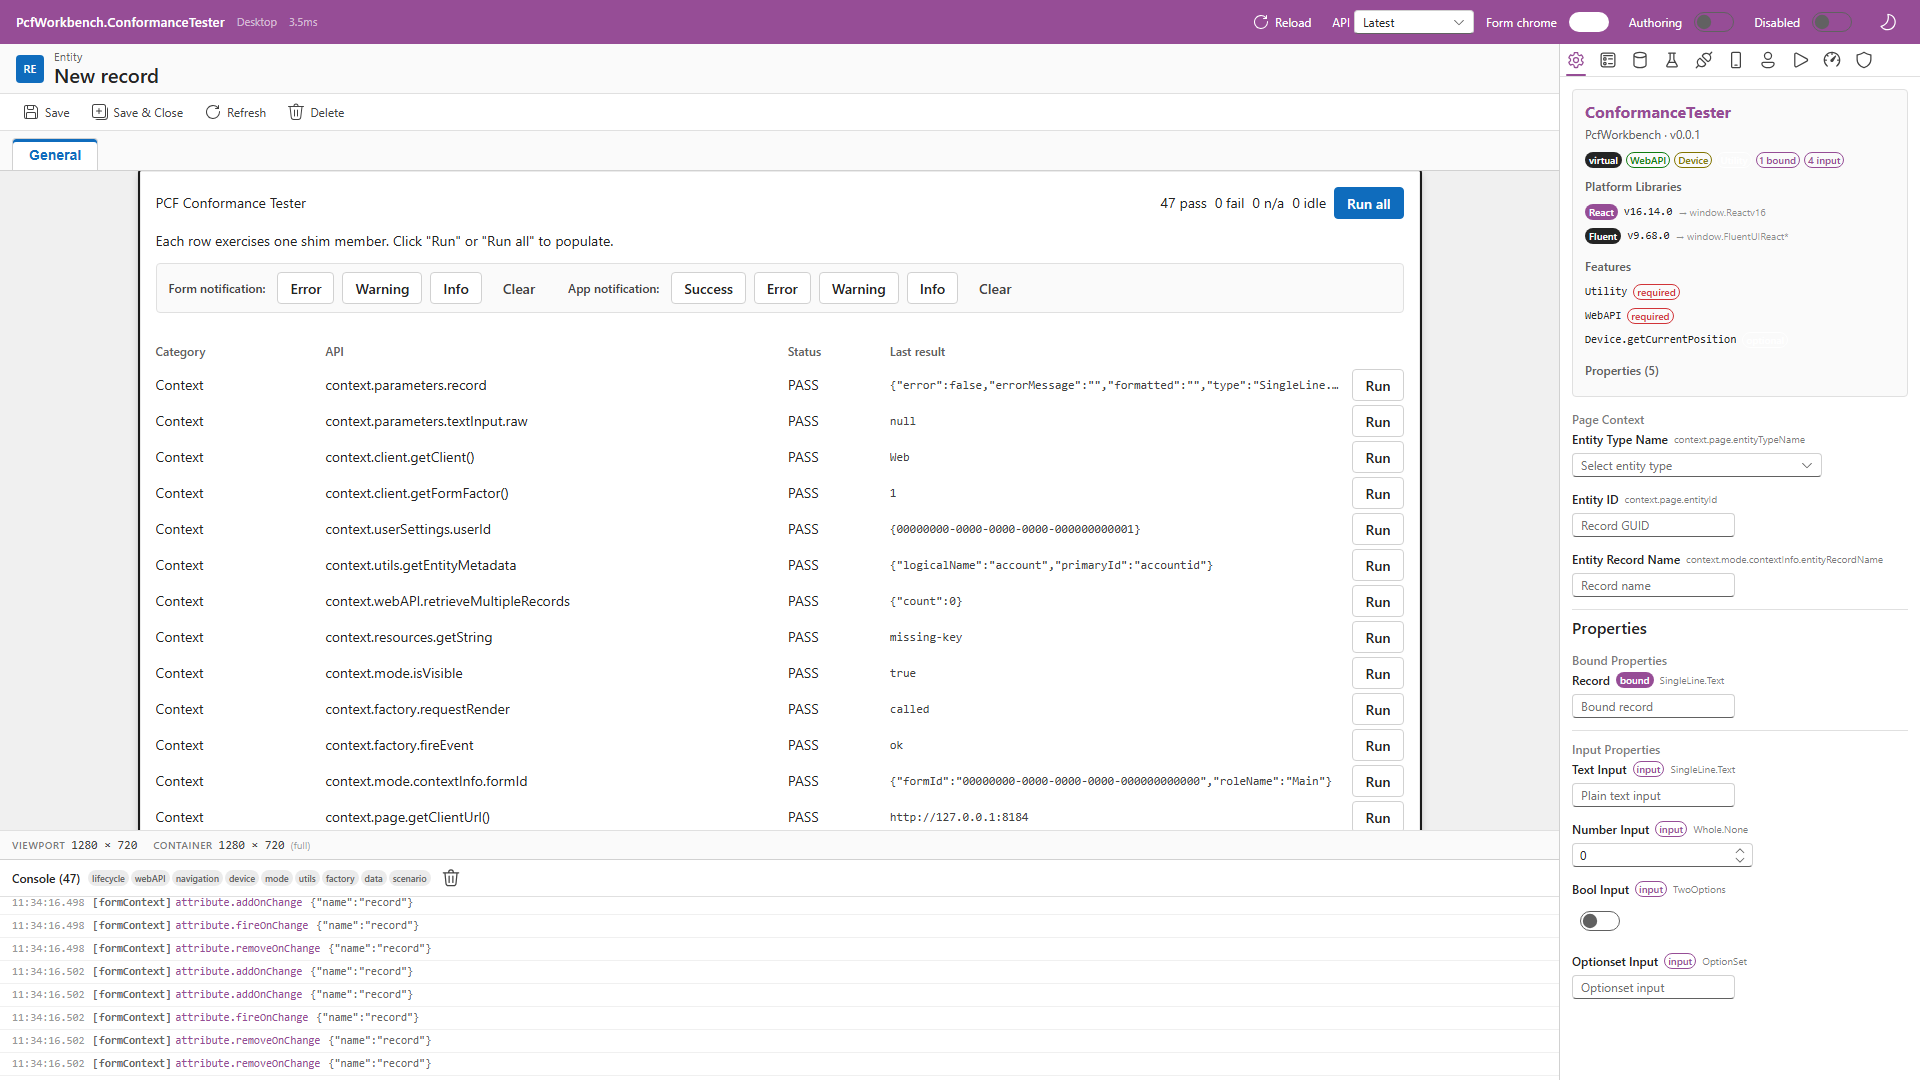
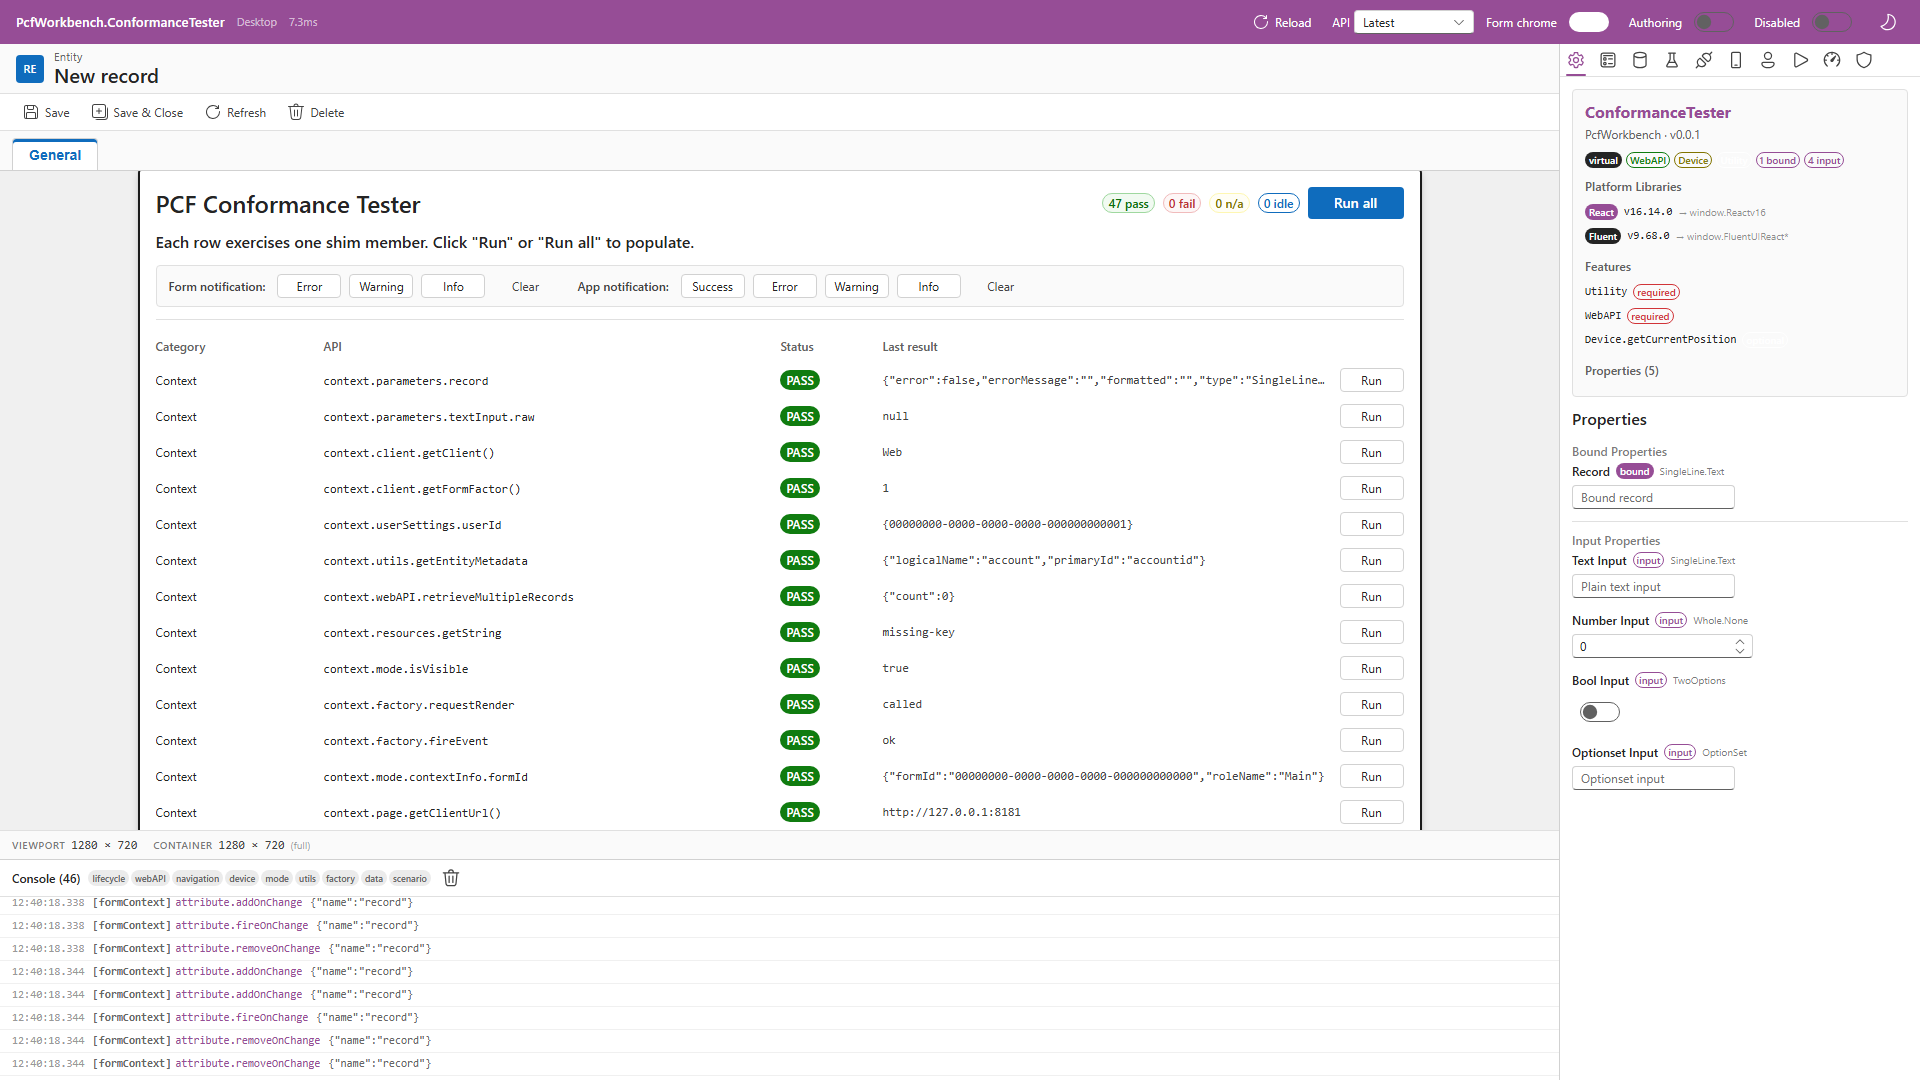
M9.P2 chunk 1: real Fluent UMDs via on-demand esbuild bundle
The hand-stubbed Fluent UI in platform-libs.ts hits a completeness ceiling
(e.g. ColorPicker calls real getColorFromString, can't no-op). This change
adds a Vite middleware that, on first request, npm installs the requested
Fluent v8 or v9 version into harness/.fluent-cache/, bundles it with esbuild
to an IIFE and serves it. Subsequent loads are instant from disk.

Architecture:
- /__pcf/fluent-cdn/<v8|v9>/<x.y.z>/bundle.js — middleware route
- esbuild externals plugin maps 'react'/'react-dom' to window.React/ReactDOM
  so Fluent shares the same React instance as the PCF bundle (avoids the
  classic two-Reacts hooks-dispatcher-null bug, React error #321)
- 'react/jsx-runtime' shimmed via React.createElement so React 16 (loaded
  globally for PCF compat) can host Fluent v9's new-JSX-transform output
- platform-libs.ts: tryLoadRealFluent() injects script tag, awaits onload,
  aliases under all versioned globals (FluentUIReactv940, etc.); falls
  back to existing stub on failure
- .fluent-cache/ gitignored

Validated: ConformanceTester (Fluent v9 9.68.0) 38/0/0 conformance pass.
ColorPicker (Fluent v8 8.29.0) loads past the previous stub ceiling.

Part of M9 — Deployed Controls Inspector.

diff --git a/harness/src/vite-plugin/fluent-cdn.ts b/harness/src/vite-plugin/fluent-cdn.ts
@@ -1,0 +1,223 @@
+/**
+ * Vite middleware that serves real Fluent UI UMDs on demand for deployed/extracted
+ * PCF controls. Bundles `@fluentui/react` (v8) or `@fluentui/react-components` (v9)
+ * with esbuild on first request, caches the IIFE bundle to disk, and exposes the
+ * library under the versioned globals deployed bundles expect (FluentUIReactv940 etc.).
+ *
+ * Why we bundle on demand instead of vendoring a UMD or pulling from a CDN:
+ *  - Neither @fluentui/react nor @fluentui/react-components ships a UMD on npm.
+ *    They publish ESM + CJS only (designed for tree-shaking).
+ *  - Vendoring would commit ~7 MB of prebuilt bundles to the harness repo.
+ *  - Loading from MS's UCI CDN would pin us to undocumented, hash-rotated URLs.
+ *
+ * On-demand npm-install + esbuild is slow on first run (10–60 s incl. install)
+ * but reproducible, version-stable, and fully offline after first build.
+ *
+ * Cache layout: harness/.fluent-cache/<v8|v9>/<version>/
+ *   - package.json   — minimal manifest pinning the requested fluent version
+ *   - node_modules/  — npm-installed dep tree (gitignored)
+ *   - entry.js       — generated stub that re-exports under window globals
+ *   - bundle.js      — esbuild output (IIFE), what we serve
+ */
+
+import type { Connect, Plugin } from 'vite';
+import fs from 'node:fs';
+import path from 'node:path';
+import { spawn } from 'node:child_process';
+import * as esbuild from 'esbuild';
+
+export const FLUENT_CDN_BASE = '/__pcf/fluent-cdn';
+
+interface FluentTarget {
+  major: 'v8' | 'v9';
+  npmPkg: string;
+  /** Globals to assign the namespace export to (window.<name> = F). The first
+   *  one is the canonical name; the rest are aliases for manifest drift. */
+  globals: string[];
+  /** React peer that pairs with this Fluent line. Bundled into the same UMD. */
+  reactVersion: string;
+}
+
+const TARGETS: Record<string, FluentTarget> = {
+  v8: {
+    major: 'v8',
+    npmPkg: '@fluentui/react',
+    globals: ['FluentUIReact', 'FluentUIReactv8290', 'FluentUIReactv81211'],
+    reactVersion: '17.0.2',
+  },
+  v9: {
+    major: 'v9',
+    npmPkg: '@fluentui/react-components',
+    globals: ['FluentUIReactv940', 'FluentUIReactv946'],
+    reactVersion: '17.0.2',
+  },
+};
+
+function getCacheRoot(): string {
+  // Resolve relative to the harness/ folder where Vite is invoked.
+  return path.resolve(process.cwd(), '.fluent-cache');
+}
+
+async function runNpmInstall(cacheDir: string): Promise<void> {
+  await new Promise<void>((resolve, reject) => {
+    const child = spawn('npm', ['install', '--silent', '--no-audit', '--no-fund', '--no-progress'], {
+      cwd: cacheDir,
+      shell: true,
+      stdio: 'inherit',
+    });
+    child.on('exit', code => code === 0 ? resolve() : reject(new Error(`npm install exited with code ${code}`)));
+    child.on('error', reject);
+  });
+}
+
+async function buildBundle(target: FluentTarget, version: string, cacheDir: string, outFile: string): Promise<void> {
+  const pkgJsonPath = path.join(cacheDir, 'package.json');
+  if (!fs.existsSync(pkgJsonPath)) {
+    fs.mkdirSync(cacheDir, { recursive: true });
+    fs.writeFileSync(pkgJsonPath, JSON.stringify({
+      name: `pcfwb-fluent-cache-${target.major}-${version}`,
+      version: '0.0.0',
+      private: true,
+      dependencies: {
+        [target.npmPkg]: version,
+        react: target.reactVersion,
+        'react-dom': target.reactVersion,
+      },
+    }, null, 2));
+  }
+
+  const installedMarker = path.join(cacheDir, 'node_modules', target.npmPkg, 'package.json');
+  if (!fs.existsSync(installedMarker)) {
+    console.log(`[pcf-workbench] fluent-cdn: installing ${target.npmPkg}@${version} (this is a one-time per-version cost)…`);
+    const start = Date.now();
+    await runNpmInstall(cacheDir);
+    console.log(`[pcf-workbench] fluent-cdn: install done in ${((Date.now() - start) / 1000).toFixed(1)}s`);
+  }
+
+  const entryPath = path.join(cacheDir, 'entry.js');
+  const aliasAssignments = target.globals.map(name => `  g.${name} = F;`).join('\n');
+  fs.writeFileSync(entryPath, `import * as F from '${target.npmPkg}';
+const g = (typeof window !== 'undefined') ? window : globalThis;
+${aliasAssignments}
+// Marker so platform-libs can detect that the real Fluent UMD loaded for this version.
+g.__pcfwbFluentReal = g.__pcfwbFluentReal || {};
+g.__pcfwbFluentReal['${target.major}'] = '${version}';
+`);
+
+  console.log(`[pcf-workbench] fluent-cdn: bundling ${target.npmPkg}@${version} with esbuild…`);
+  const start = Date.now();
+  // External-globals plugin: resolve `react` and `react-dom` (and their /jsx-runtime
+  // entry points) to the host page's window.React / window.ReactDOM. This is critical
+  // for Fluent components to share the SAME React instance as the PCF bundle that
+  // hosts them — otherwise hooks find a null dispatcher (React error #321).
+  const externalGlobalsPlugin: esbuild.Plugin = {
+    name: 'external-globals',
+    setup(build) {
+      const externals: Record<string, string> = {
+        'react': 'window.React',
+        'react-dom': 'window.ReactDOM',
+        'react-dom/client': 'window.ReactDOM',
+      };
+      const jsxRuntimeShim = `var React = window.React;
+function jsx(type, props, key) {
+  if (props == null) return React.createElement(type, key != null ? { key: key } : null);
+  var children = props.children;
+  var rest = {};
+  for (var k in props) { if (k !== 'children') rest[k] = props[k]; }
+  if (key != null) rest.key = key;
+  return React.createElement(type, rest, children);
+}
+exports.jsx = jsx;
+exports.jsxs = jsx;
+exports.jsxDEV = jsx;
+exports.Fragment = React.Fragment;`;
+      const jsxFilter = /^react\/jsx-(dev-)?runtime$/;
+      const externalsFilter = new RegExp('^(' + Object.keys(externals).map(k => k.replace(/[\\/]/g, '\\$&')).join('|') + ')$');
+      build.onResolve({ filter: jsxFilter }, args => ({ path: args.path, namespace: 'jsx-runtime-shim' }));
+      build.onLoad({ filter: /.*/, namespace: 'jsx-runtime-shim' }, () => ({
+        contents: jsxRuntimeShim,
+        loader: 'js',
+      }));
+      build.onResolve({ filter: externalsFilter }, args => ({ path: args.path, namespace: 'external-globals' }));
+      build.onLoad({ filter: /.*/, namespace: 'external-globals' }, args => ({
+        contents: `module.exports = ${externals[args.path]};`,
+        loader: 'js',
+      }));
+    },
+  };
+  await esbuild.build({
+    entryPoints: [entryPath],
+    bundle: true,
+    outfile: outFile,
+    format: 'iife',
+    target: ['es2017'],
+    platform: 'browser',
+    minify: true,
+    absWorkingDir: cacheDir,
+    nodePaths: [path.join(cacheDir, 'node_modules')],
+    define: { 'process.env.NODE_ENV': '"production"' },
+    loader: { '.js': 'jsx' },
+    plugins: [externalGlobalsPlugin],
+    logLevel: 'warning',
+  });
+  const sizeKb = (fs.statSync(outFile).size / 1024).toFixed(1);
+  console.log(`[pcf-workbench] fluent-cdn: bundle ready in ${((Date.now() - start) / 1000).toFixed(1)}s (${sizeKb} KB)`);
+}
+
+export function fluentCdnMiddleware(): Connect.NextHandleFunction {
+  // Dedupe parallel requests for the same bundle while a build is in flight.
+  const inflight = new Map<string, Promise<void>>();
+
+  return async (req, res, next) => {
+    if (!req.url || !req.url.startsWith(FLUENT_CDN_BASE + '/')) return next();
+
+    const rel = req.url.slice(FLUENT_CDN_BASE.length).replace(/^\/+/, '').split('?')[0];
+    // Accept either /<v>/<version> or /<v>/<version>/bundle.js
+    const parts = rel.split('/').filter(Boolean);
+    const major = parts[0];
+    const version = parts[1];
+    const target = TARGETS[major];
+    if (!target || !version || !/^\d+\.\d+\.\d+$/.test(version)) {
+      res.statusCode = 400;
+      res.setHeader('Content-Type', 'text/plain');
+      res.end(`Bad fluent-cdn path. Expected ${FLUENT_CDN_BASE}/<v8|v9>/<x.y.z>(/bundle.js)?`);
+      return;
+    }
+
+    const cacheDir = path.join(getCacheRoot(), target.major, version);
+    const outFile = path.join(cacheDir, 'bundle.js');
+
+    try {
+      if (!fs.existsSync(outFile)) {
+        let p = inflight.get(outFile);
+        if (!p) {
+          p = buildBundle(target, version, cacheDir, outFile)
+            .finally(() => inflight.delete(outFile));
+          inflight.set(outFile, p);
+        }
+        await p;
+      }
+      const buf = fs.readFileSync(outFile);
+      res.setHeader('Content-Type', 'application/javascript; charset=utf-8');
+      res.setHeader('Cache-Control', 'public, max-age=31536000, immutable');
+      res.setHeader('Content-Length', String(buf.length));
+      res.end(buf);
+    } catch (err: unknown) {
+      const msg = err instanceof Error ? err.message : String(err);
+      console.error('[pcf-workbench] fluent-cdn error:', err);
+      res.statusCode = 500;
+      res.setHeader('Content-Type', 'text/plain');
+      res.end(`fluent-cdn error: ${msg}`);
+    }
+  };
+}
+
+export function fluentCdnPlugin(): Plugin {
+  return {
+    name: 'pcf-workbench:fluent-cdn',
+    apply: 'serve',
+    configureServer(server) {
+      server.middlewares.use(fluentCdnMiddleware());
+    },
+  };
+}

diff --git a/harness/src/loader/platform-libs.ts b/harness/src/loader/platform-libs.ts
@@ -83,22 +83,79 @@ export async function loadPlatformLibraries(resources: ManifestResources): Promi
     }
   }
 
-  // Set up Fluent UI stub
+  // Set up Fluent UI — try real UMD via /__pcf/fluent-cdn first, fall back to stub.
   const fluentLib = libs.find(l => l.name === 'Fluent');
   if (fluentLib) {
-    // Deployed/extracted controls often have manifests that declare one Fluent
-    // version but the bundle imports a different versioned global (e.g. manifest
-    // says 8.29.0 but bundle imports FluentUIReactv940). Set up ALL known
-    // versioned globals against the same stub so the bundle finds what it wants
-    // regardless of manifest drift.
-    const stub = createFluentStub(w);
-    const globalNames = ['FluentUIReactv940', 'FluentUIReactv8290', 'FluentUIReactv81211'];
-    console.log(`[pcf-workbench] Fluent setup: manifest declares v${fluentLib.version} — exposing ${globalNames.join(', ')}`);
-    for (const name of globalNames) {
-      if (!w[name]) w[name] = stub;
-      else console.warn(`[pcf-workbench] Fluent UI global window.${name} already exists — keeping existing.`);
+    const real = await tryLoadRealFluent(fluentLib.version);
+    if (real) {
+      // Real UMD loaded — alias whatever canonical global it exposed under all
+      // versioned names so bundles find the version they expect (manifest drift).
+      const major = fluentLib.version.split('.')[0] === '9' ? 'v9' : 'v8';
+      const canonical = major === 'v9' ? 'FluentUIReactv940' : 'FluentUIReact';
+      const aliasNames = [
+        'FluentUIReact', 'FluentUIReactv940', 'FluentUIReactv946',
+        'FluentUIReactv8290', 'FluentUIReactv81211',
+      ];
+      const fluentNs = w[canonical];
+      for (const name of aliasNames) {
+        if (!w[name]) w[name] = fluentNs;
+      }
+      console.log(`[pcf-workbench] Fluent ${major} ${fluentLib.version} loaded from /__pcf/fluent-cdn — aliased under ${aliasNames.join(', ')}`);
+    } else {
+      // CDN unavailable (offline, npm install failed, etc.) — fall back to lightweight
+      // stub. ConformanceTester and other in-tree samples don't declare Fluent so this
+      // path normally only runs for deployed controls.
+      const stub = createFluentStub(w);
+      const globalNames = ['FluentUIReactv940', 'FluentUIReactv8290', 'FluentUIReactv81211'];
+      console.warn(`[pcf-workbench] Fluent setup: real UMD unavailable, falling back to stub — exposing ${globalNames.join(', ')}`);
+      for (const name of globalNames) {
+        if (!w[name]) w[name] = stub;
+        else console.warn(`[pcf-workbench] Fluent UI global window.${name} already exists — keeping existing.`);
+      }
     }
   }
+}
+
+/**
+ * Try to load a real Fluent UMD via the /__pcf/fluent-cdn middleware. Returns
+ * true if a script with `__pcfwbReal` marker becomes available on window, false
+ * otherwise (network failure, build failure, marker missing). Safe to call from
+ * any browser context — never throws.
+ */
+async function tryLoadRealFluent(version: string): Promise<boolean> {
+  const w = window as any;
+  const major = version.split('.')[0] === '9' ? 'v9' : 'v8';
+  const canonical = major === 'v9' ? 'FluentUIReactv940' : 'FluentUIReact';
+
+  // Already loaded by a previous control switch?
+  if (w.__pcfwbFluentReal?.[major] && w[canonical]) return true;
+
+  const url = `/__pcf/fluent-cdn/${major}/${version}/bundle.js`;
+  console.log(`[pcf-workbench] Fluent: requesting real UMD ${url} (first request may take 10-60s for npm install + esbuild)`);
+
+  return new Promise<boolean>(resolve => {
+    const existing = document.querySelector(`script[data-pcf-fluent-cdn="${major}-${version}"]`);
+    if (existing) {
+      // Another loader is already in flight — re-check after a tick.
+      setTimeout(() => resolve(!!(w.__pcfwbFluentReal?.[major] && w[canonical])), 100);
+      return;
+    }
+    const s = document.createElement('script');
+    s.src = url;
+    s.setAttribute('data-pcf-fluent-cdn', `${major}-${version}`);
+    s.onload = () => {
+      if (w.__pcfwbFluentReal?.[major] && w[canonical]) resolve(true);
+      else {
+        console.warn(`[pcf-workbench] Fluent CDN script loaded but window.${canonical} or marker missing.`);
+        resolve(false);
+      }
+    };
+    s.onerror = () => {
+      console.warn(`[pcf-workbench] Fluent CDN load failed for ${url}. Falling back to stub.`);
+      resolve(false);
+    };
+    document.head.appendChild(s);
+  });
 }
 
 function createFluentStub(w: any) {

diff --git a/harness/vite.config.ts b/harness/vite.config.ts
@@ -3,6 +3,7 @@ import react from '@vitejs/plugin-react';
 import { pcfPlugin } from './src/vite-plugin/pcf-plugin';
 import { dataverseSecurity } from './src/vite-plugin/dataverse-security';
 import { dataverseProxy } from './src/vite-plugin/dataverse-proxy';
+import { fluentCdnPlugin } from './src/vite-plugin/fluent-cdn';
 
 export default defineConfig({
   plugins: [
@@ -11,6 +12,9 @@ export default defineConfig({
     // checked before they reach the token-acquiring code.
     dataverseSecurity(),
     dataverseProxy(),
+    // Fluent UMD on-demand bundler — serves real Fluent v8/v9 to deployed
+    // controls whose manifests declare a Fluent platform-library.
+    fluentCdnPlugin(),
     pcfPlugin(),
   ],
   server: {